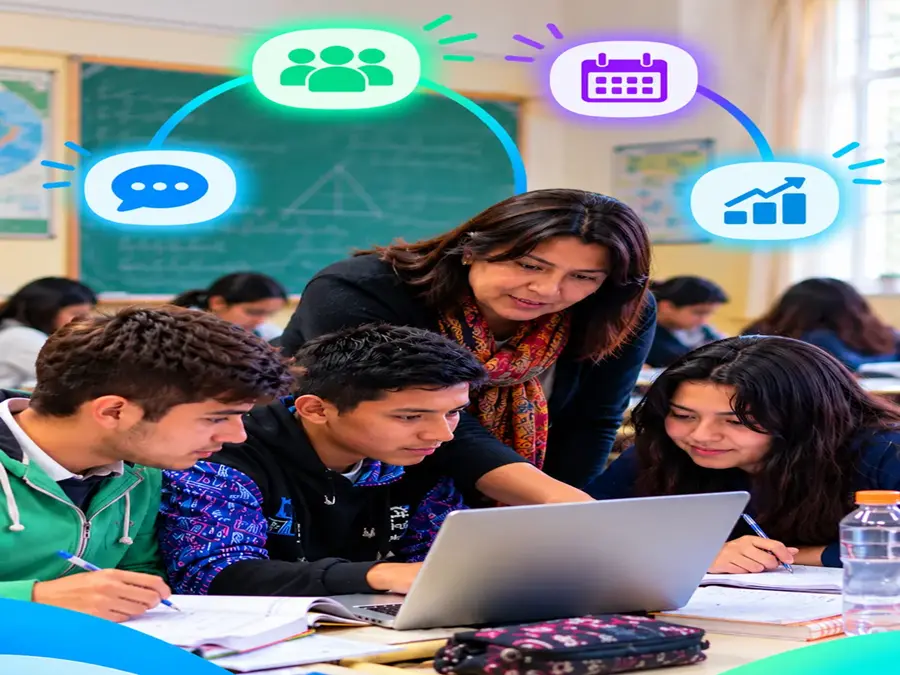
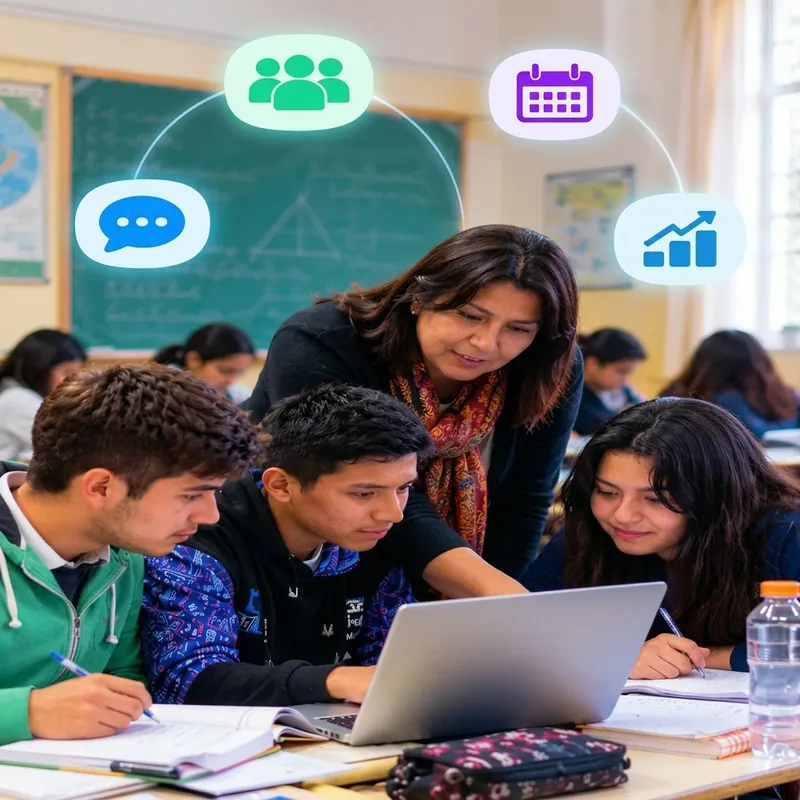
Hero: imagen móvil cuadrada 800x800

diff --git a/components/hero/HeroSection.tsx b/components/hero/HeroSection.tsx
@@ -22,7 +22,7 @@ const HERO_CONFIG = {
   images: {
     desktop: '/images/hero/hero-desktop.webp', // 2400x960
     tablet: '/images/hero/hero-tablet.webp', // 1400x820
-    mobile: '/images/hero/hero-mobile.webp', // 900x675
+    mobile: '/images/hero/hero-mobile.webp', // 800x800 (cuadrada)
     alt: 'Docente y estudiantes trabajando juntos con una computadora en un aula',
   },
 };
@@ -99,10 +99,12 @@ const IMAGE_WRAPPER_CLASSES = [
   'xl:rounded-none xl:border-0 xl:shadow-none',
 ].join(' ');
 
+// Móvil: cuadrada (1:1). Tablet (640-1279px): panorámica. Desktop: llena la sección.
 const IMAGE_CLASSES = [
-  'block w-full aspect-[4/3] sm:aspect-[1400/820] object-cover',
+  'block w-full aspect-square sm:aspect-[1400/820] object-cover',
   'xl:h-full xl:aspect-auto xl:object-right',
 ].join(' ');
+
 export default function HeroSection() {
   return (
     <section id="inicio" className={SECTION_CLASSES}>
@@ -147,8 +149,8 @@ export default function HeroSection() {
             <img
               src={HERO_CONFIG.images.mobile}
               alt={HERO_CONFIG.images.alt}
-              width={900}
-              height={675}
+              width={800}
+              height={800}
               fetchPriority="high"
               decoding="async"
               className={IMAGE_CLASSES}
